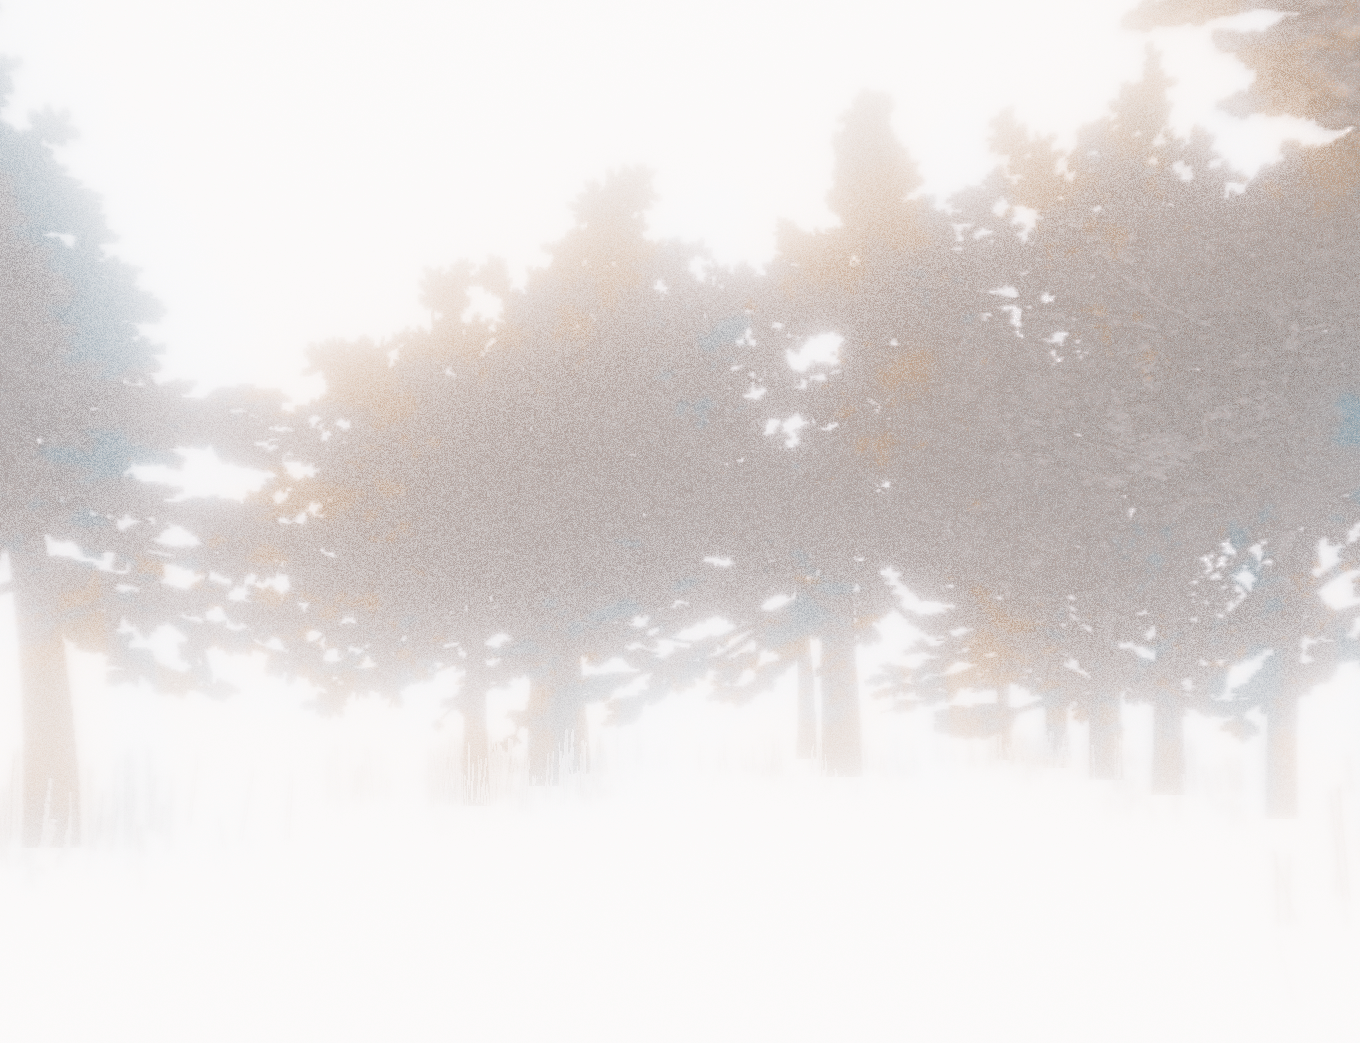
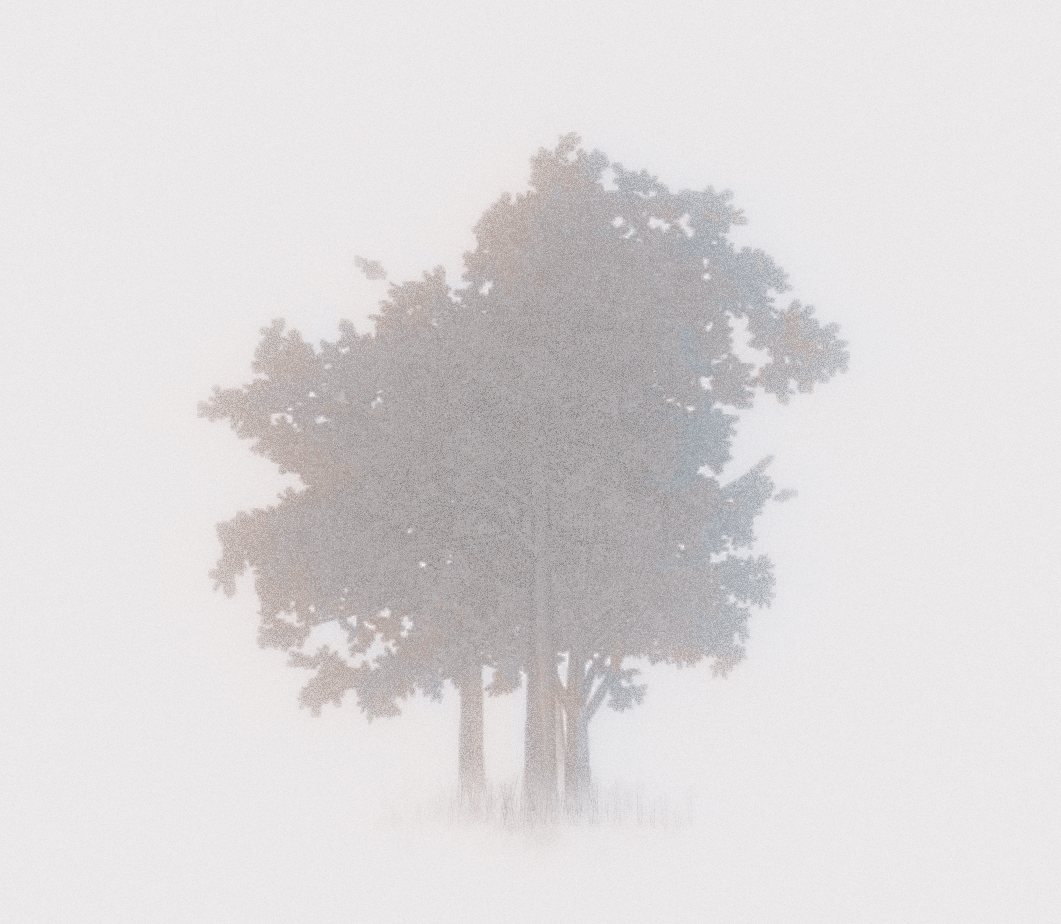
update materials

diff --git a/README.md b/README.md
@@ -1,5 +1,5 @@
 # White Lead Forest
 
 <p align="center">
-  <img src="White Lead Forest.gif" alt="White Lead Forest" >
+  <img src="public/White Lead Forest.gif" alt="White Lead Forest" >
 </p>